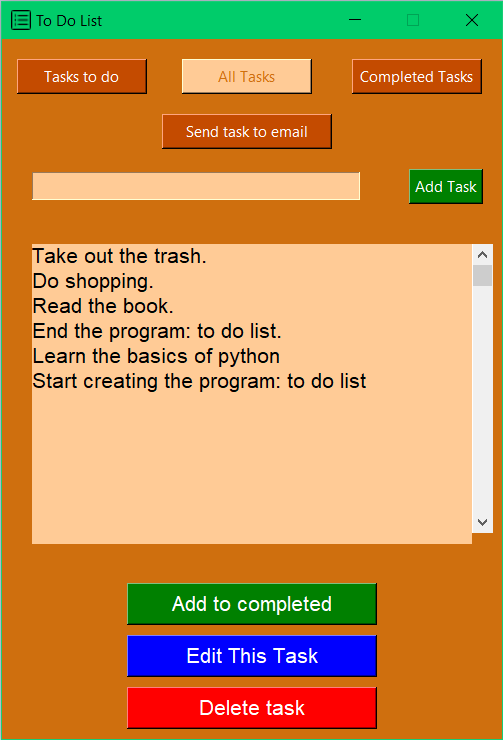
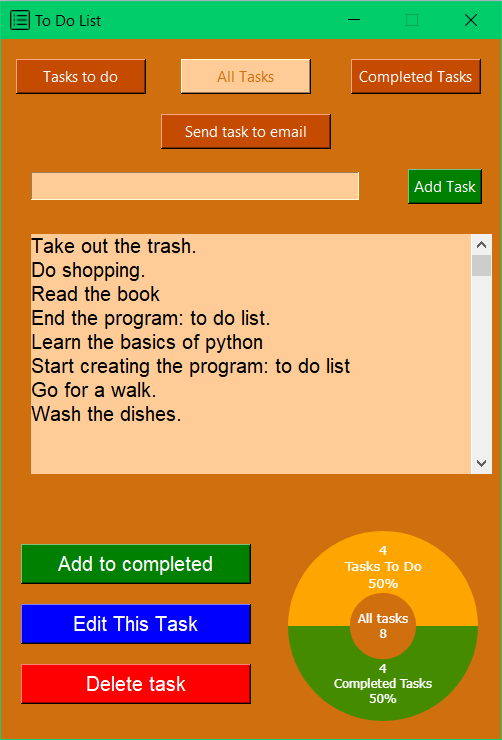
added to README pie chart foto, repair add to completed when task in completed

diff --git a/src/app/main.py b/src/app/main.py
@@ -11,7 +11,7 @@ current = os.path.dirname(os.path.realpath(__file__))
 parent = os.path.dirname(current)
 sys.path.append(parent)
 
-# Import passwd from function
+# Import passwd from function in other folder
 # from app.email_passwd.email_password import email_passwd
 
 # email_password = email_passwd()
@@ -44,7 +44,7 @@ class ToDoList():
         self.input_field = self.create_input_field()
 
         # Submit Button
-        self.button = self.create_add_task_button()
+        self.add_task_button = self.create_add_task_button()
 
         # Lists buttons
         self.tasks_to_do_list_button = self.create_button_for_list_of_tasks_to_do()
@@ -116,9 +116,6 @@ class ToDoList():
         db_connector.close()
 
 
-
-
-
     # Creates a frame for options buttons
     def create_options_frame(self):
         frame = Frame(self.window, height=150, bg=APP_BACKGROUND)
@@ -128,7 +125,7 @@ class ToDoList():
 
     # Create button for email
     def create_email_button(self):
-        email_button = Button(self.options_frame, width=20, bg=BUTTONS_BACKGROUND, fg='white', text="Send task to email")
+        email_button = Button(self.options_frame, width=20, bg=BUTTONS_BACKGROUND, fg='white', text="Send tasks to email")
         email_button.grid(row=1, column=1)    
         email_button.bind("<Button>",  lambda e: self.email_window(True))
         return email_button
@@ -229,45 +226,38 @@ class ToDoList():
 
     # Create email frame
     def create_email_field(self):
-        frame = Frame(self.tasks_frame, width=450, height=450, bg=APP_BACKGROUND)
-        frame.pack()
+        frame = Frame(self.window, width=450, height=450, bg=APP_BACKGROUND)
+        frame.pack(expand=True, fill="both")
         return frame
 
 
     def email_window(self, email_frame:bool):
-        # Hide tasks frame and buttons
-        self.list_of_tasks.forget()
-        self.delete_button.place_forget()
-        self.add_to_completed_button.place_forget()
-        self.list_scrollbar.place_forget()
-        self.email_button.grid_forget()
-        self.edit_task_button.place_forget()
-        self.input_field.grid_forget()
-        self.button.grid_forget()
-        self.label_of_pie_chart.place_forget()
 
 
         # # Display email frame
         if email_frame == False:
+            # Hide email frame and back to lists button
             self.email_frame.pack_forget()
-            self.list_of_tasks.pack(pady=20, padx=30)
-            self.email_button = self.create_email_button()
             self.lists_button.grid_forget()
 
-            # Show buttons lists and input
-            self.delete_button.place(x=20, y=440)
-            self.edit_task_button.place(x=20, y=380)
-            self.add_to_completed_button.place(x=20, y=320)  
+            # Show tasks frame, buttons, lists and input
+            self.tasks_frame.pack(expand=True, fill="both")  
+            # self.email_button = self.create_email_button()
+            self.email_button.grid(row=1, column=1) 
+            self.list_of_tasks.pack(pady=10, padx=30)
             self.input_field.grid(row=2, column=0, columnspan=3, padx=30, pady=20)
-            self.button.grid(row=2, column=3, sticky='', padx=10, pady=20)
-
-            # Show widget
-            self.label_of_pie_chart.place(x=270, y=300)
+            self.add_task_button.grid(row=2, column=3, sticky='', padx=10, pady=20)
 
         else:
+            # Hide tasks frame and buttons
+            self.tasks_frame.forget()
+            self.email_button.grid_forget()             
+            self.input_field.grid_forget()
+            self.add_task_button.grid_forget()     
+
+            # Create email frame and back to list button
             self.email_frame = self.create_email_field() 
             self.lists_button = self.create_lists_button()
-            self.label_of_pie_chart.place_forget()
 
 
         # Create labels
@@ -287,10 +277,8 @@ class ToDoList():
         # Create send email button
         send_email_button = Button(self.email_frame, width=18, bg='green', fg='white', font='bold', text='Send Email')
         
-
         # Create message label
         chosen_field = Label(self.email_frame, bg=APP_BACKGROUND, fg='white', font='bold', text="Which List You Want Send ?")
-
 
         # Place labels
         own_email_address_field.place(x=10, y=18)
@@ -321,6 +309,7 @@ class ToDoList():
         send_email_button.place(x=110, y=360)
         # When button click, sends data to send email function
         send_email_button.bind("<Button>", lambda e: self.send_email_with_tasks(own_email_address_entry.get(), passwd_to_email_entry.get(), email_address_to_send_entry.get(),subject_entry.get(), message_to_send_entry.get(),chosen_list_nr=(chosen_field1.get() + chosen_field2.get() + chosen_field3.get())))
+
 
 
     # Creates a frame for tasks list
@@ -389,8 +378,6 @@ class ToDoList():
         # Get task name from input
         new_task = self.input_field.get()
         if new_task != '':
-
-
             # Connect to database
             db_connector = sqlite3.connect('to_do_list.db')
 
@@ -414,9 +401,9 @@ class ToDoList():
                 # Commit changes in database
                 db_connector.commit()
 
-                # Update tasks wigdet
+                # Update tasks widget
                 self.create_pie_chart()
-                self.pie_chart_label()
+                self.update_pie_chart_label()
 
                 # Clear task input
                 self.input_field.delete(0, END)   
@@ -527,7 +514,7 @@ class ToDoList():
         self.update_frame.forget()
 
         # Show list frame and buttons
-        self.list_of_tasks.pack(pady=20, padx=30)
+        self.list_of_tasks.pack(pady=10, padx=30)
 
         self.tasks_to_do_list_button.grid(row=0, column=0, padx=15, pady=20, sticky='')
         self.all_tasks_list_button.grid(row=0, column=1, padx=10, pady=20, sticky='')
@@ -535,7 +522,7 @@ class ToDoList():
         self.email_button.grid(row=1, column=1)
 
         self.input_field.grid(row=2, column=0, columnspan=3, padx=30, pady=20)
-        self.button.grid(row=2, column=3, sticky='', padx=10, pady=20)
+        self.add_task_button.grid(row=2, column=3, sticky='', padx=10, pady=20)
 
         self.delete_button.place(x=20, y=440)
         self.edit_task_button.place(x=20, y=380)
@@ -554,7 +541,7 @@ class ToDoList():
         self.update_frame.forget()
 
         # Show list frame and buttons
-        self.list_of_tasks.pack(pady=20, padx=30)
+        self.list_of_tasks.pack(pady=10, padx=30)
 
         self.tasks_to_do_list_button.grid(row=0, column=0, padx=15, pady=20, sticky='')
         self.all_tasks_list_button.grid(row=0, column=1, padx=10, pady=20, sticky='')
@@ -562,7 +549,7 @@ class ToDoList():
         self.email_button.grid(row=1, column=1)
         
         self.input_field.grid(row=2, column=0, columnspan=3, padx=30, pady=20)
-        self.button.grid(row=2, column=3, sticky='', padx=10, pady=20)
+        self.add_task_button.grid(row=2, column=3, sticky='', padx=10, pady=20)
         
         self.delete_button.place(x=20, y=440)
         self.edit_task_button.place(x=20, y=380)
@@ -592,7 +579,7 @@ class ToDoList():
         self.completed_tasks_list_button.grid_forget()
         self.email_button.grid_forget()
         self.input_field.grid_forget()
-        self.button.grid_forget()
+        self.add_task_button.grid_forget()
 
 
 
@@ -644,9 +631,9 @@ class ToDoList():
             db_connect.commit()
             db_connect.close()
 
-            # Update tasks wigdet
+            # Update tasks widget
             self.create_pie_chart()
-            self.pie_chart_label()
+            self.update_pie_chart_label()
 
             return task_to_delete
         
@@ -660,27 +647,36 @@ class ToDoList():
 
         if task_to_transfer != '':
 
-            # Delete selected task in task to do list
-            self.list_of_tasks.delete(ANCHOR)
-
             # Connect to database
             db_connect = sqlite3.connect('to_do_list.db')
-            cursor = db_connect.cursor()
+            cursor = db_connect.cursor()    
 
-            # Delete task in "task to do" table in database
-            cursor.execute(f"""DELETE FROM task_to_do WHERE name='{task_to_transfer}'""")
+            completed_tasks = cursor.execute("""SELECT name FROM completed_tasks""")
+            completed_tasks = [task[0] for task in list(completed_tasks)]
+            
+            if task_to_transfer not in completed_tasks:
 
-            # Add task to "completed task" table in database
-            cursor.execute(f"""INSERT INTO completed_tasks(id, name) VALUES(null, '{task_to_transfer.capitalize()}')""")
+                # Delete selected task in task to do list
+                self.list_of_tasks.delete(ANCHOR)
 
-            # Commit changes in database and close connections
-            db_connect.commit()
-            db_connect.close()
 
-            # Update tasks wigdet
-            self.create_pie_chart()
-            self.pie_chart_label()
 
+                # Delete task in "task to do" table in database
+                cursor.execute(f"""DELETE FROM task_to_do WHERE name='{task_to_transfer}'""")
+
+                # Add task to "completed task" table in database
+                cursor.execute(f"""INSERT INTO completed_tasks(id, name) VALUES(null, '{task_to_transfer.capitalize()}')""")
+
+                # Commit changes in database and close connections
+                db_connect.commit()
+                db_connect.close()
+
+                # Update tasks widget
+                self.create_pie_chart()
+                self.update_pie_chart_label()
+
+                return task_to_transfer
+            
             return task_to_transfer
         
         return task_to_transfer
@@ -820,18 +816,15 @@ class ToDoList():
                 # Send message
                 server.send_message(msg)
 
-                # Hide email frame
+                # Hide email frame and button back to list
                 self.email_frame.pack_forget()
-                # Show list of tasks
-                self.list_of_tasks.pack(pady=20, padx=30)
-                # Show "delete" button
-                self.create_delete_button()  
-                # Show "edit task" button
-                self.create_edit_task_button()
-                # Show "add to complete" button
-                self.create_add_to_completed_button()
-                # Show scrollbar
-                self.list_scrollbar.place()
+                self.lists_button.grid_forget()
+
+                # Show tasks frame , input and buttons (add, send to email)
+                self.tasks_frame.pack(expand=True, fill="both")
+                self.email_button.grid(row=1, column=1) 
+                self.input_field.grid(row=2, column=0, columnspan=3, padx=30, pady=20)
+                self.add_task_button.grid(row=2, column=3, sticky='', padx=10, pady=20)
 
 
             # Catch ten errors
@@ -908,13 +901,24 @@ class ToDoList():
 
         fig.write_image("images/pie_chart.png")
 
-  
+
+    # Create pie chart label
     def pie_chart_label(self):
         image = PhotoImage(file="images/pie_chart.png")
-        chart = Label(self.tasks_frame, image=image, width=220, height=220)
-        chart.photo = image
-        chart.place(x=270, y=300)
-        return chart
+        label_of_pie_chart = Label(self.tasks_frame, image=image, width=220, height=220)
+        label_of_pie_chart.photo = image
+        label_of_pie_chart.place(x=270, y=300)
+        return label_of_pie_chart
+
+
+    # Update pie chart label
+    def update_pie_chart_label(self):
+        self.label_of_pie_chart.place_forget()
+        image = PhotoImage(file="images/pie_chart.png")
+        label_of_pie_chart = Label(self.tasks_frame, image=image, width=220, height=220)
+        label_of_pie_chart.photo = image
+        label_of_pie_chart.place(x=270, y=300)
+        return label_of_pie_chart
 
 
 

diff --git a/README.md b/README.md
@@ -27,10 +27,11 @@
 ### We can edit and update task
 <img src="/images/update_task.png">
 
-
 ### And finally we can send to email one, two or all lists.
 <img src="/images/send_email.png">
 
+### There is a tasks widget, showing how many task we have, how many we want to do and how many we completed.
+<img src="/images/tasks_chart.png">
 
 ## Technologie
 
@@ -48,6 +49,7 @@
     <li>Sqlite3 - Database </li>
     <li>EmailMessage - To create email form</li>
     <li>Smtplib - Connect to email and send message</li>
+    <li>Plotly - To create a tasks widget</li>
     <li>sys, os</li>
 </ul>
 
